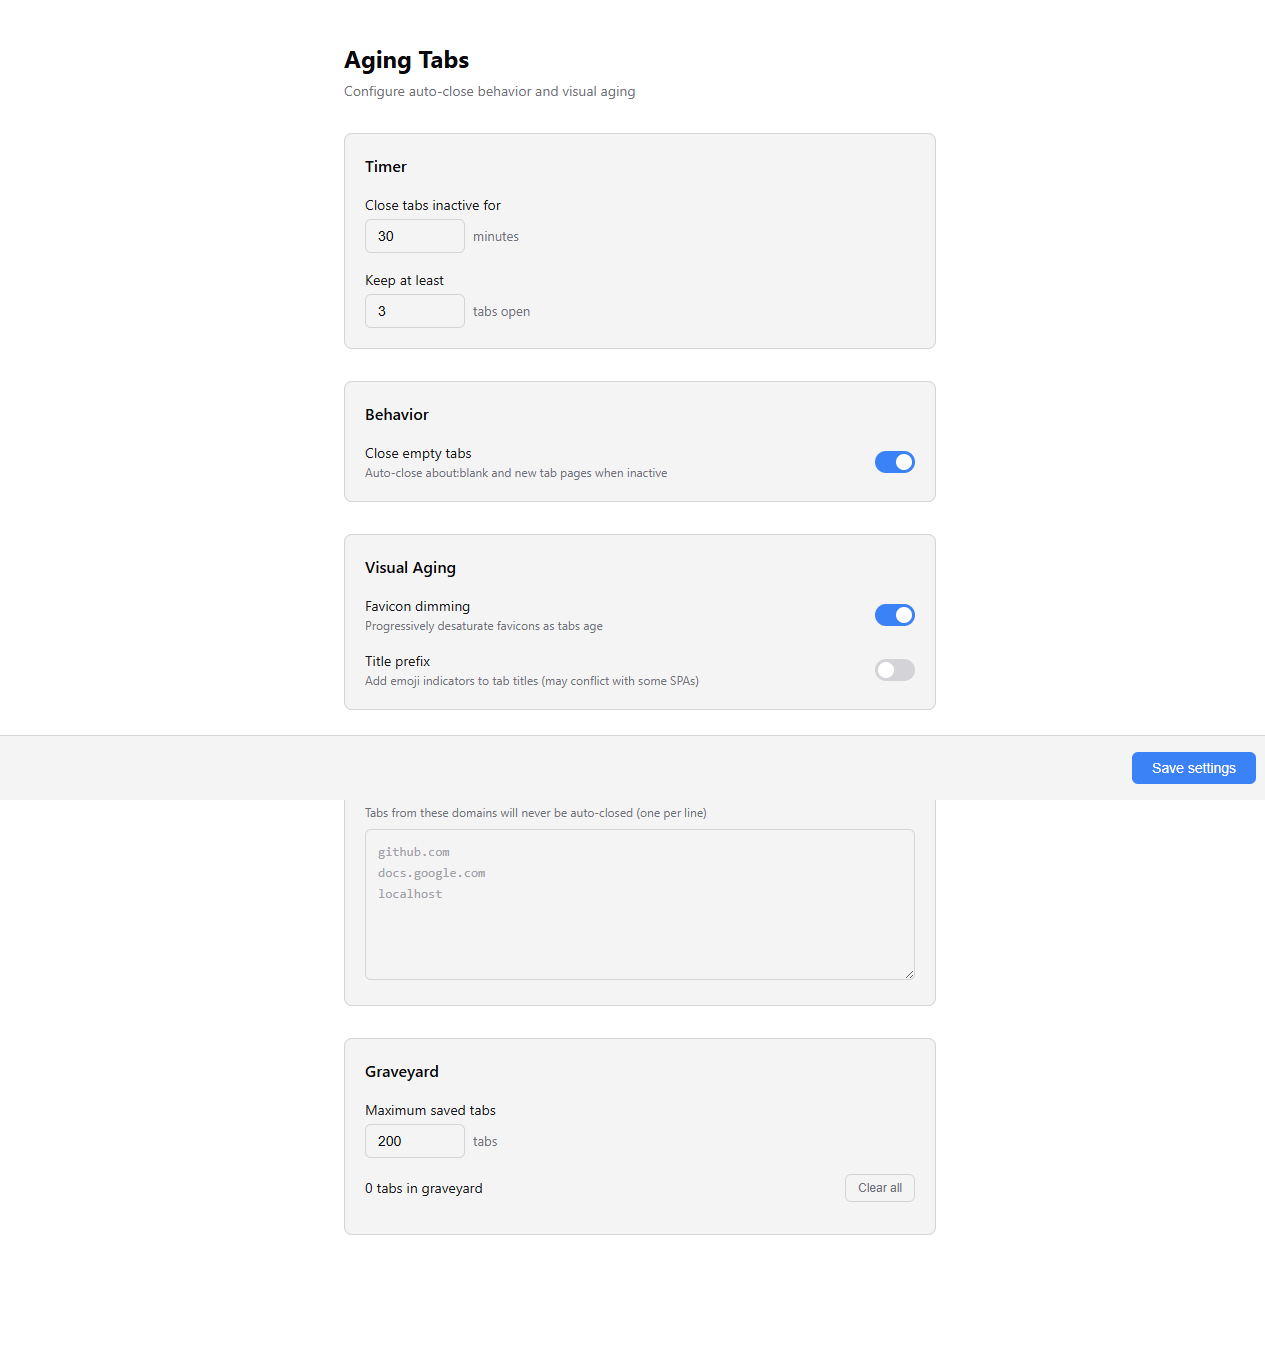
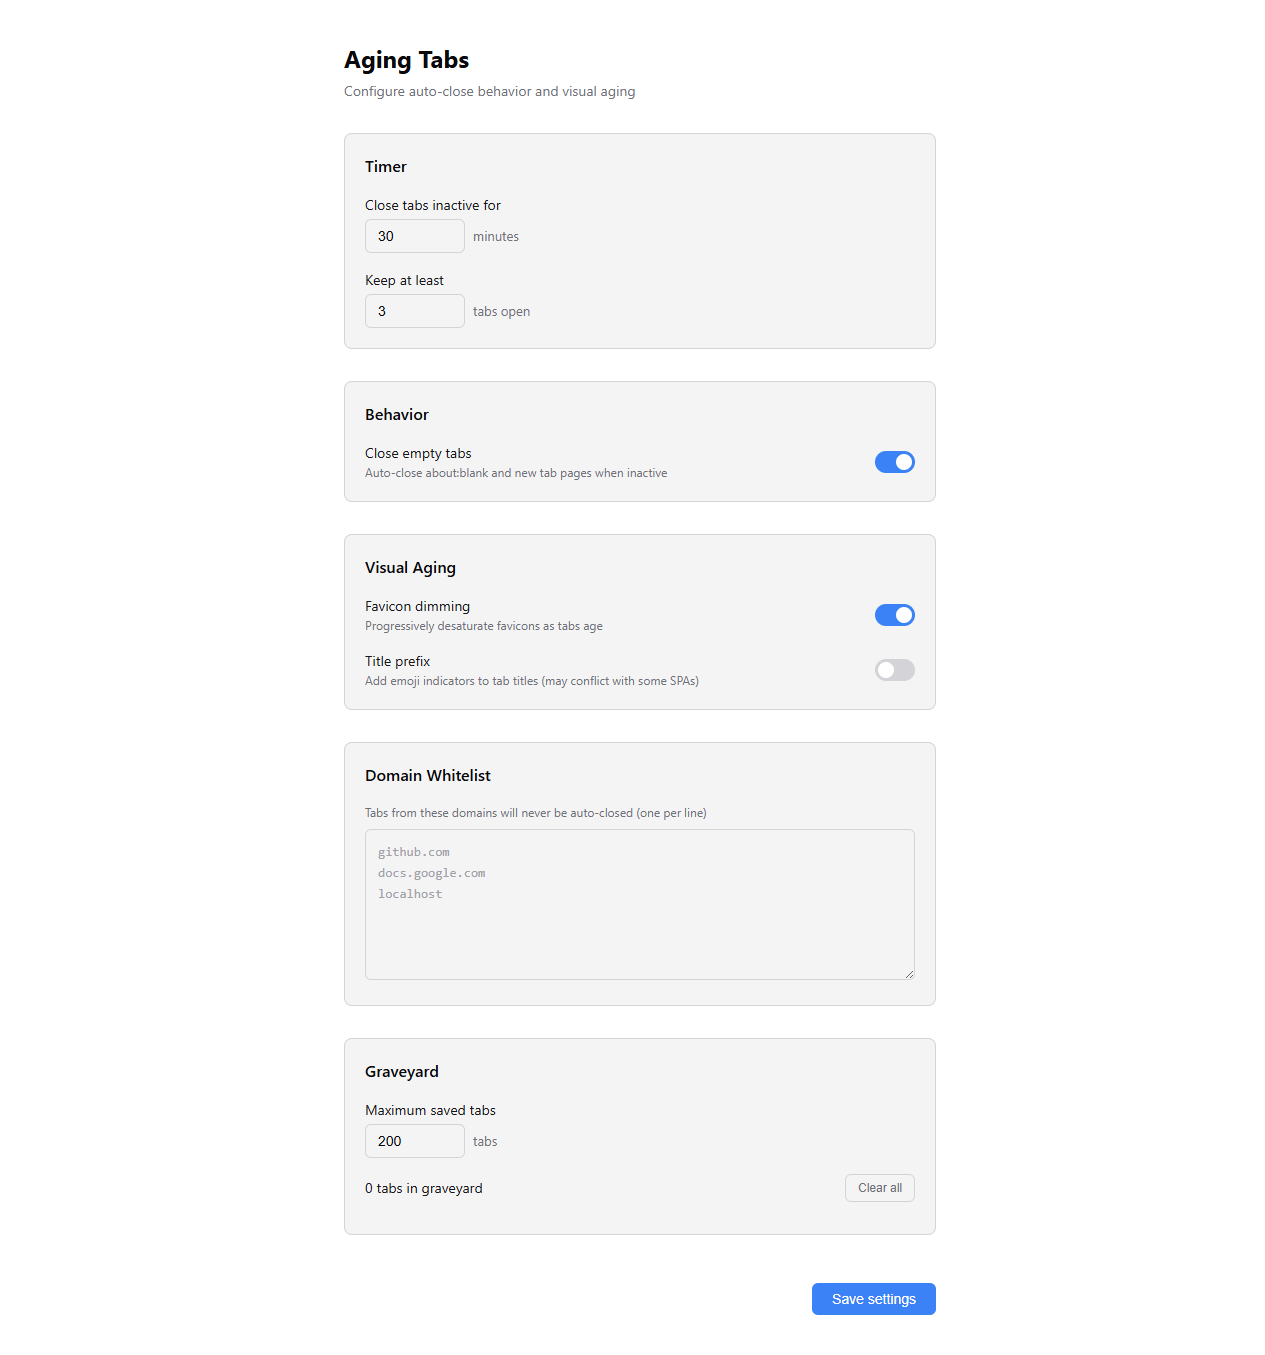
fix: save button layout in options page
Remove position:fixed from save-bar — it was floating over content
and breaking on wide screens. Now inline at bottom of the page.

diff --git a/src/options/options.css b/src/options/options.css
@@ -64,7 +64,7 @@ body {
 .container {
   max-width: 640px;
   margin: 0 auto;
-  padding: 40px 24px 100px;
+  padding: 40px 24px 40px;
 }
 
 header {
@@ -313,17 +313,11 @@ textarea:focus {
 }
 
 .save-bar {
-  position: fixed;
-  bottom: 0;
-  left: 0;
-  right: 0;
   display: flex;
   align-items: center;
   justify-content: flex-end;
   gap: 12px;
-  padding: 16px 24px;
-  background: var(--bg);
-  border-top: 1px solid var(--border);
+  padding: 16px 0 0;
 }
 
 .save-status {
